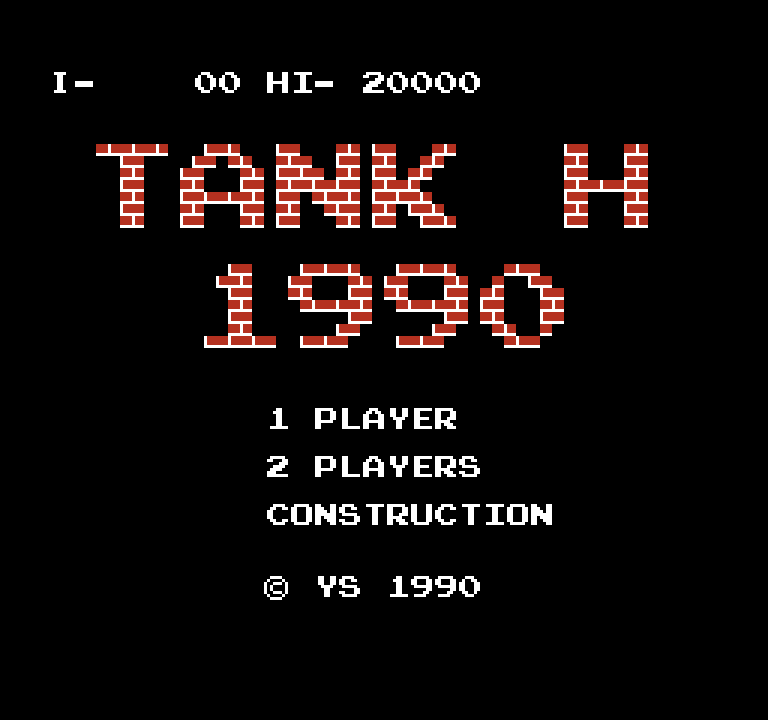
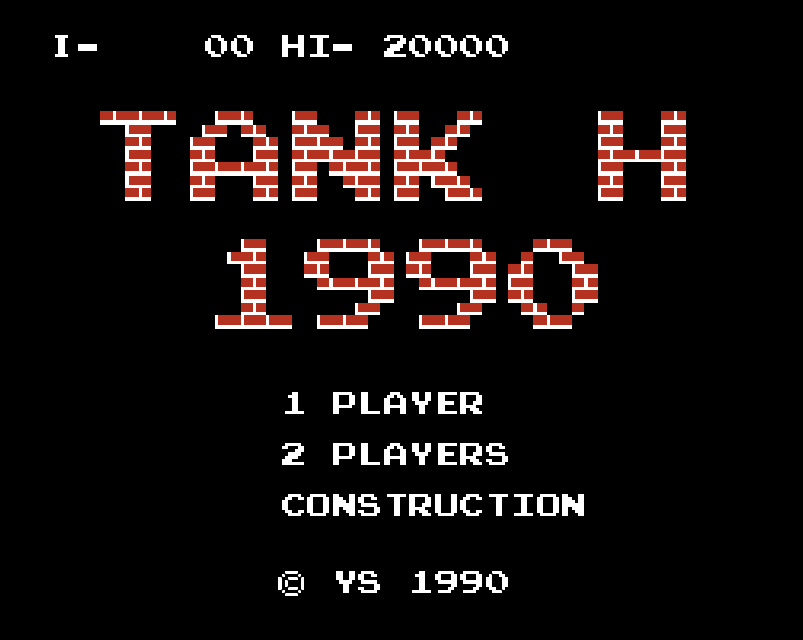
done

diff --git a/tanks.py b/tanks.py
@@ -10,7 +10,8 @@ pygame.mixer.init()
 pygame.init()
 WIDTH, HEiGHT = 800, 640
 size = 800, 640
-window = pygame.display.set_mode(size, pygame.DOUBLEBUF | pygame.HWSURFACE)
+#window = pygame.display.set_mode(size, pygame.DOUBLEBUF | pygame.HWSURFACE)
+window = pygame.display.set_mode(size)
 pygame.display.set_caption("Tanks Dendy")
 clock = pygame.time.Clock()
 TITLE = 32
@@ -26,7 +27,9 @@ helmet = 0
 base = base.block[helmet]
 firewall = base
 matrix = lev
-
+go = False
+play = True
+players = 1
 
 
 soundStart = pygame.mixer.Sound('music/battle-city_-tanchiki_-dend.mp3')
@@ -34,6 +37,7 @@ soundBlock = pygame.mixer.Sound('music/battle-city-sfx-3.mp3')
 soundShoot = pygame.mixer.Sound('music/battle-city-sfx-6.mp3')
 soundBang = pygame.mixer.Sound('music/battle-city-sfx-7.mp3')
 soundDrive = pygame.mixer.Sound('music/battle-city-sfx-16.mp3')
+soundEnter = pygame.mixer.Sound('music/battle-city-sfx-10.mp3')
 
 
 imgBonus = [
@@ -79,6 +83,9 @@ imgEnemy = [
     pygame.image.load('images/vrag2.png'),
     pygame.image.load('images/vrag3.png'),
 ]
+
+imgMenu = pygame.image.load('images/start.png')
+
 DIRECTS = [[0, -1], [1, 0], [0, 1], [-1, 0]]
 
 
@@ -86,6 +93,47 @@ DIRECTS = [[0, -1], [1, 0], [0, 1], [-1, 0]]
 #tankDown = pygame.transform.rotate(tank, 180)
 #tankRight = pygame.transform.rotate(tank, 270)
 #tankLeft = pygame.transform.rotate(tank, 90)
+
+
+def menu(go):
+    global play
+    px = TITLE * 7
+    py = TITLE * 12
+    global players
+
+    while go == False:
+        for event in pygame.event.get():
+            if event.type == pygame.QUIT:
+                play = False
+                go = True
+            if event.type == pygame.KEYDOWN:
+                print('жмакаем ' + str(event.key))
+                if event.key == pygame.K_UP:
+                    #soundBlock.play(0)
+                    py = (TITLE * 12)
+                    players = 1
+
+                if event.key == pygame.K_DOWN:
+                    #soundBlock.play(0)
+                    py = (TITLE * 14)
+                    players = 2
+
+                if event.key == pygame.K_RETURN:
+                    play = True
+                    go = True
+
+
+
+
+
+
+        image = pygame.transform.rotate(imgTanks[8], -90)
+        window.blit(imgMenu, (0, 0))
+        window.blit(image, (px, py))
+        pygame.display.flip()
+
+
+menu(go)
 
 class UI:
     def __init__(self):
@@ -531,8 +579,13 @@ def pole(a):
 
 bullets = []
 objects = []
-Tank('blue', 10 * TITLE, 19 * TITLE, 0, (pygame.K_a, pygame.K_d, pygame.K_w, pygame.K_s, pygame.K_SPACE), 8)
-Tank('red', 14 * TITLE, 19 * TITLE, 0, (pygame.K_LEFT, pygame.K_RIGHT, pygame.K_UP, pygame.K_DOWN, pygame.K_KP0), 8)
+if players == 1:
+    Tank('Игрок 1', 10 * TITLE, 19 * TITLE, 0, (pygame.K_a, pygame.K_d, pygame.K_w, pygame.K_s, pygame.K_SPACE), 8)
+
+
+elif players == 2:
+    Tank('Игрок 1', 10 * TITLE, 19 * TITLE, 0, (pygame.K_a, pygame.K_d, pygame.K_w, pygame.K_s, pygame.K_SPACE), 8)
+    Tank('Игрок 2', 14 * TITLE, 19 * TITLE, 0, (pygame.K_LEFT, pygame.K_RIGHT, pygame.K_UP, pygame.K_DOWN, pygame.K_KP0), 8)
 ui = UI()
 
 #window.fill('black')
@@ -554,7 +607,7 @@ soundStart.play(0)
 #
 #     Block(x, y, TITLE)ws
 frame = 0
-play = True
+
 while play:
     for event in pygame.event.get():
         if event.type == pygame.QUIT:

diff --git a/test.py b/test.py
@@ -1,0 +1,23 @@
+import pygame
+
+size = 800, 640
+window = pygame.display.set_mode(size)
+pygame.display.set_caption("Tanks Dendy")
+
+go = False
+
+imgMenu = pygame.image.load('images/start.png')
+
+
+    #global menu, menu2, menupos, menupos2, done
+while go == False:
+    for event in pygame.event.get():
+        if event.type == pygame.QUIT:
+            done = True
+            go = True
+
+
+
+    window.blit(imgMenu, (0, 0))
+    pygame.display.flip()
+
